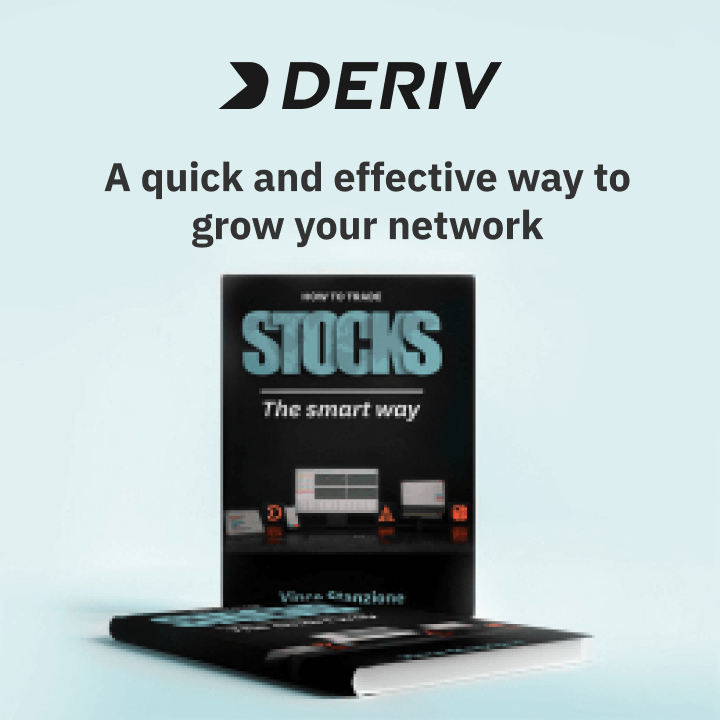
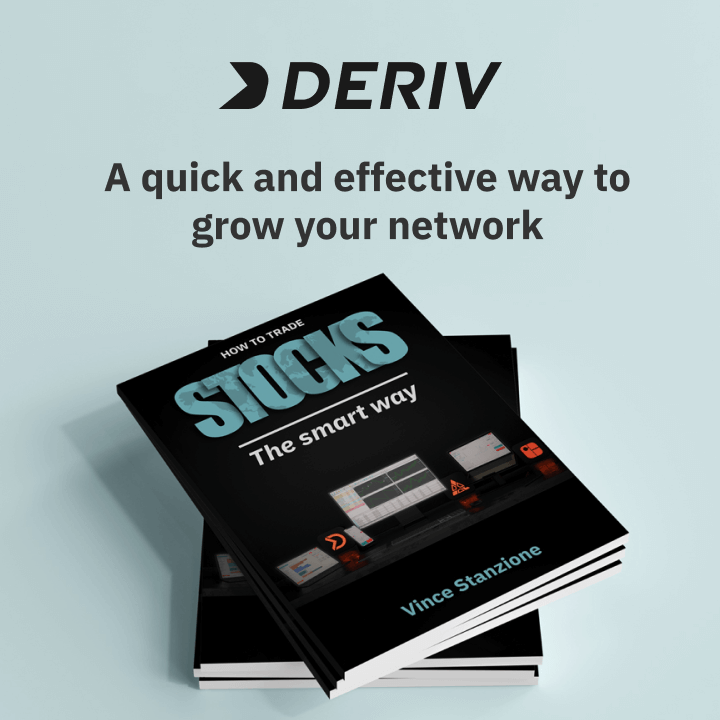
update above the fold

diff --git a/email/templates/marketing/ebook-stock-f2.html b/email/templates/marketing/ebook-stock-f2.html
@@ -316,13 +316,13 @@
                         <!-- COPY -->
                         <tr class="mobile-hide">
                             <td bgcolor="#eeeeee" align="center" >
-                                <input type="image" class="g-img" src="https://static.deriv.com/email/images/header/ebook-stocks.png"  width= "600" style="display: block;outline:none"/><div></div>
+                                <input type="image" class="g-img" src="https://static.deriv.com/email/images/header/ebook-stock-f2.png"  width= "600" style="display: block;outline:none"/><div></div>
                             </td>
                         </tr>   
                         <div >
                             <tr style="display: none; mso-hide:all;" class="mobile-visible-block">
                                 <td bgcolor="#eeeeee" align="center" >
-                                    <input type="image" class="g-img" src="https://static.deriv.com/email/images/header/ebook-stocks-m.png" width="100%" style="display: block;outline:none"/><div></div>
+                                    <input type="image" class="g-img" src="https://static.deriv.com/email/images/header/ebook-stock-f2-m.png" width="100%" style="display: block;outline:none"/><div></div>
                                 </td>
                             </tr>  
                         </div>             
